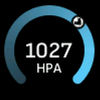
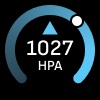
change barometer view

diff --git a/modular/watchface/index.js b/modular/watchface/index.js
@@ -956,6 +956,15 @@ WatchFace({
       src: 'barometer/background.png',
     });
 
+    const arrowImageWidget = hmUI.createWidget(hmUI.widget.IMG, {
+      ...WIDGET_ICON_IMAGE_PROPS,
+      x,
+      y: y  - 0.22 * h,
+      w,
+      h,
+      src: 'barometer/arrow_none.png',
+    });
+
     const dotImageWidget = hmUI.createWidget(hmUI.widget.IMG, dotImageProps);
 
     const textWidget = hmUI.createWidget(hmUI.widget.TEXT, {
@@ -979,16 +988,16 @@ WatchFace({
     const timeSensor = hmSensor.createSensor(hmSensor.id.TIME);
     const barometer = new Barometer();
 
-    const getDotSrc = (diff) => {
-      let fileName = 'dot';
+    const getArrowSrc = (diff) => {
+      let fileName = 'none';
 
       if (diff > 0) {
-        fileName = 'dot_up';
+        fileName = 'up';
       } else if (diff < 0) {
-        fileName = 'dot_down';
+        fileName = 'down';
       }
 
-      return `widget/${fileName}.png`;
+      return `barometer/arrow_${fileName}.png`;
     };
 
     const getDotAngle = (hPaValue) =>
@@ -1017,9 +1026,10 @@ WatchFace({
       dotImageWidget.setProperty(hmUI.prop.MORE, {
         ...dotImageProps,
         alpha: 255,
-        src: getDotSrc(diff),
         angle: getDotAngle(hPa),
       });
+
+      arrowImageWidget.setProperty(hmUI.prop.SRC, getArrowSrc(diff));
     };
 
     hmUI.createWidget(hmUI.widget.WIDGET_DELEGATE, {

diff --git a/modular/utils/constants.js b/modular/utils/constants.js
@@ -107,7 +107,7 @@ const WIND_POSTFIX_RU = 'М/С';
 export const WIND_POSTFIX = isRusLang ? WIND_POSTFIX_RU : WIND_POSTFIX_EN;
 
 const BAROMETER_POSTFIX_EN = 'HPA';
-const BAROMETER_POSTFIX_RU = 'ММ РТ.';
+const BAROMETER_POSTFIX_RU = 'ММ';
 export const BAROMETER_POSTFIX = isRusLang
   ? BAROMETER_POSTFIX_RU
   : BAROMETER_POSTFIX_EN;

diff --git a/modular/utils/Barometer.js b/modular/utils/Barometer.js
@@ -8,7 +8,7 @@ export class Barometer {
   /** Path to the system file with barometer data.
    * Add another level (/../) to work in the Zepp OS simulatorF
    * */
-  _DATA_FILE_PATH = '../../../baro_altim/pressure.dat';
+  _DATA_FILE_PATH = '../../../../baro_altim/pressure.dat';
 
   constructor() {}
 
